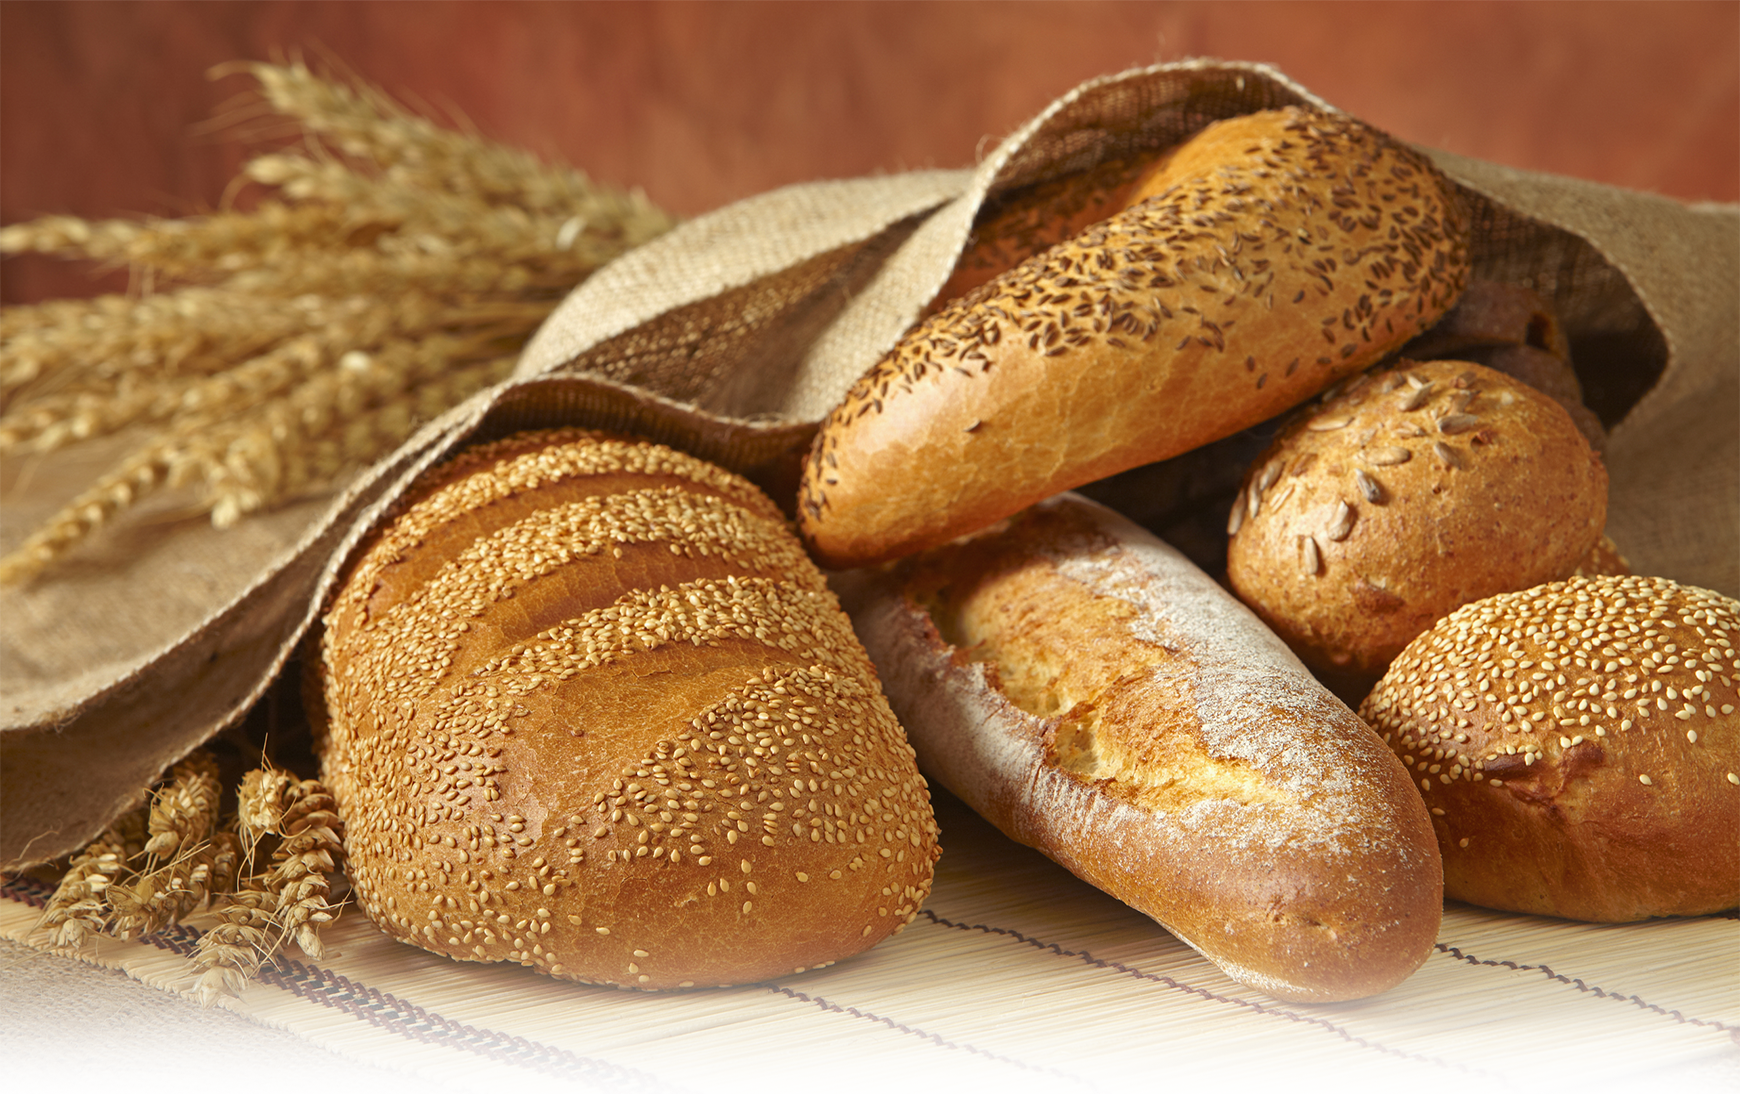
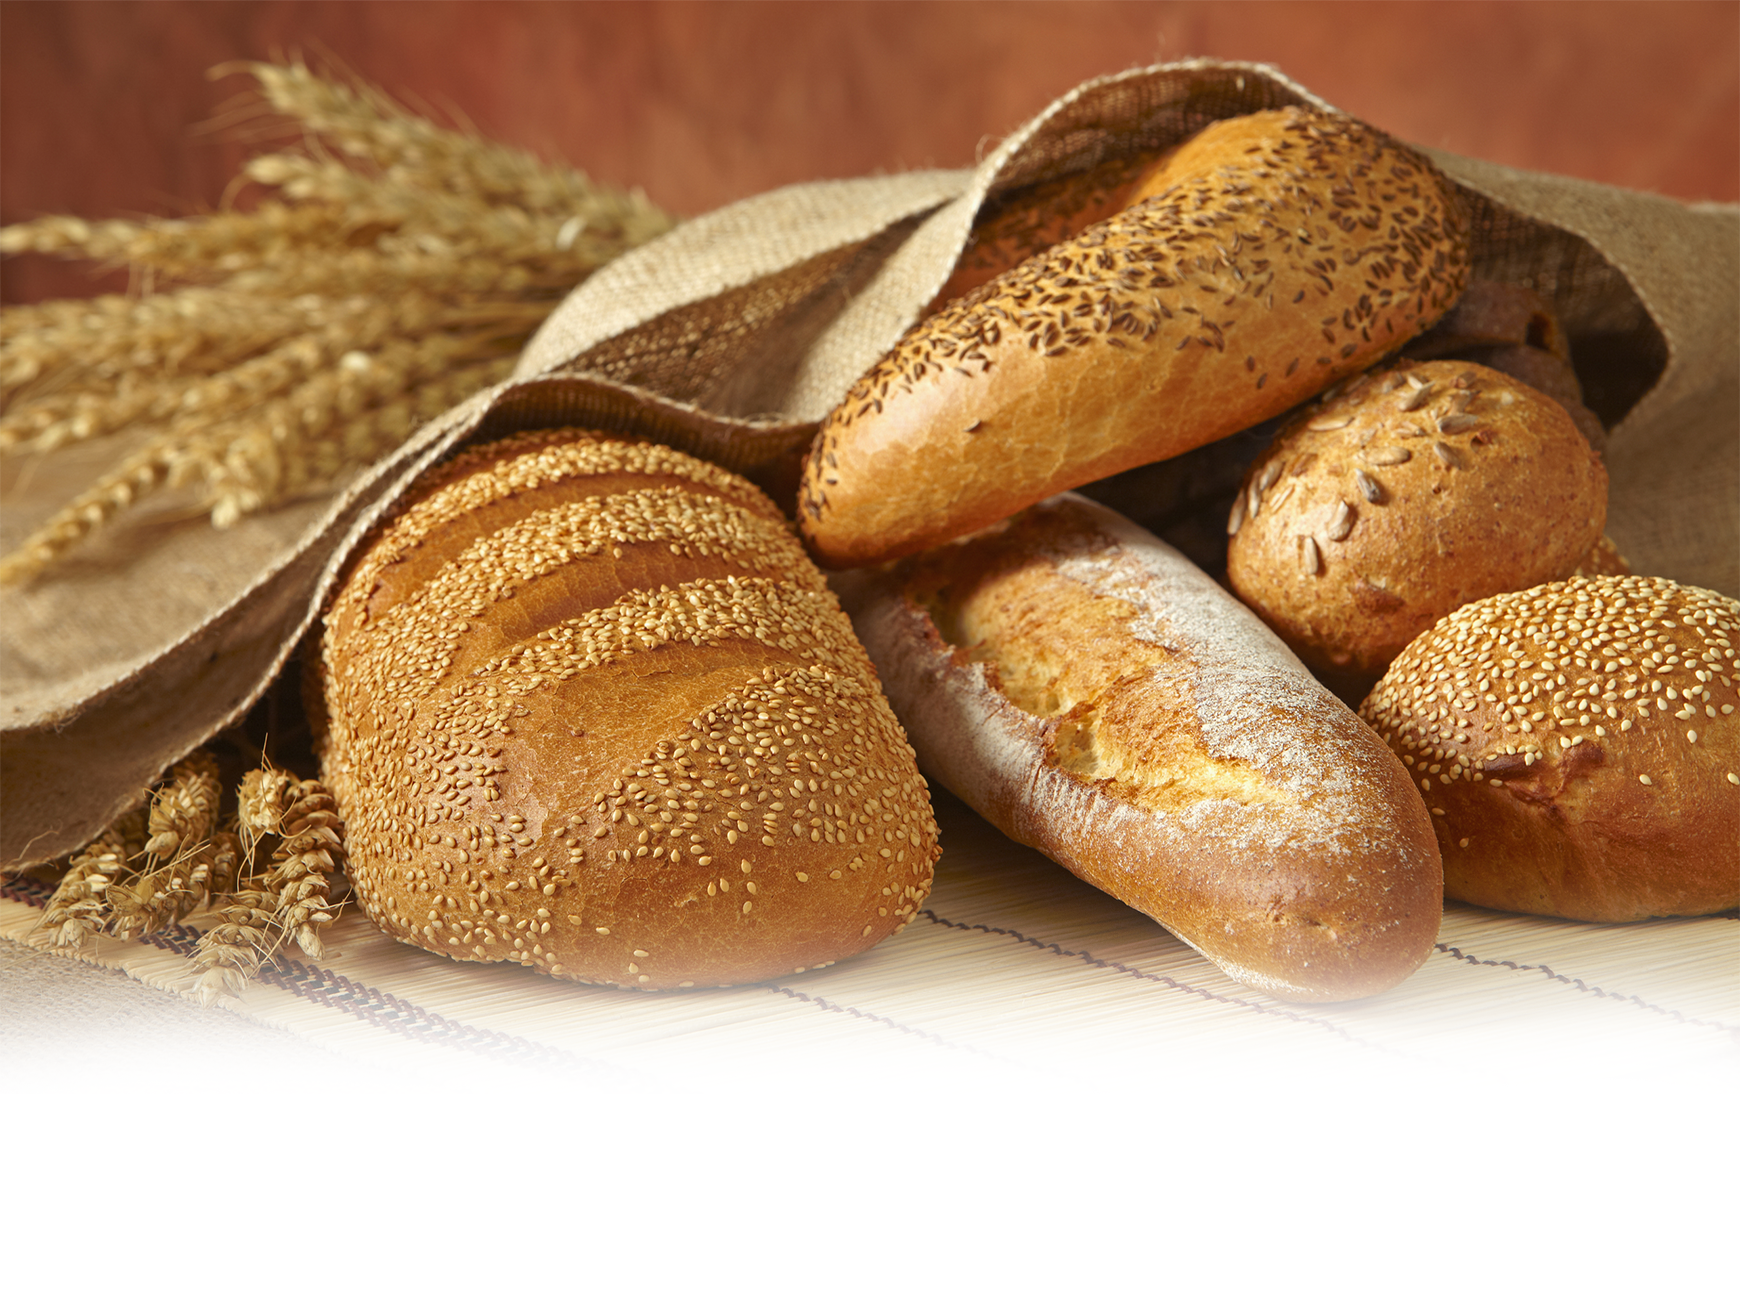
homepage

diff --git a/_site/index.html b/_site/index.html
@@ -3,30 +3,41 @@
 <head>
 	<meta charset="utf-8">
 	<title>Baker's Bakery</title>
-	<link href="/css/common.css" rel="stylesheet">
+	<link href="/BakersBakery/css/common.css" rel="stylesheet">
 </head>
 <body>
 <div class="wrapper">
 	<header>
-		<img src="../images/banner-logo.png">
+		<img src=".../images/banner-logo-compressed.png">
 		<nav>
 	<ul>
-		<li><a href="/index.html" class="current">Home</a></li>
-		<li><a href="/menu.html" class="">Menu</a></li>
-		<li><a href="/about.html" class="">About</a></li>
-		<li><a href="/location.html" class="">Location</a></li>
+		<li><a href="/BakersBakery/index.html" class="current">Home</a></li>
+		<li><a href="/BakersBakery/menu.html" class="">Menu</a></li>
+		<li><a href="/BakersBakery/about.html" class="">About</a></li>
+		<li><a href="/BakersBakery/location.html" class="">Location</a></li>
 	</ul>
 </nav>
 	</header>
 	<div class="header-bar"></div>
-	<img class="home-image" src="images/bread-compressed.png">
-<h1>Our Family Bakery</h2>
+	<img class="home-image" src="images/bread.png">
+<div class="textbox">
+	<div class="textbox-bar"></div>
+	<h1>Our Family Bakery</h2>
 
-<p>For over 50 years we at Baker’s Bakery pride ourselves on quality, freshness and the very finest of ingredients. 
-We use only the finest ingredients in our recepies, each bite represents our commitment to high quality food. 
-We use real butter in our homemade bread, real heavy whipping cream in our cakes; we cook our own egg custard and ganache fillings. Our mission is to bake and deliver to you the highest quality, authentic homemade pastries.</p>
+	<p>For over 50 years we at Baker’s Bakery pride ourselves on quality, freshness and the very finest of ingredients. 
+	We use only the finest ingredients in our recepies, each bite represents our commitment to high quality food. 
+	We use real butter in our homemade bread, real heavy whipping cream in our cakes; we cook our own egg custard and ganache fillings. Our mission is to bake and deliver to you the highest quality, authentic homemade pastries.</p>
 
-<h1>Follow us on Social Media!</h2>
+	<h1>Follow us on Social Media!</h2>
+	<ul class="social-icons">
+		<li><a href="https://www.facebook.com/"><img class="facebook" src="images/icons/facebook.png"></a></li>
+		<li><a href="https://www.instagram.com/"><img class="instagram" src="images/icons/instagram.png"></a></li>
+		<li><a href="https://www.youtube.com/"><img class="youtube" src="images/icons/youtube.png"></a></li>
+		<li><a href="https://twitter.com/"><img class="twitter" src="images/icons/twitter.png"></a></li>
+		<li><a href="https://plus.google.com/"><img class="plus" src="images/icons/plus.png"></a></li>
+	</ul>
+</div>
+
 </div>
 
 </body>

diff --git a/index.html b/index.html
@@ -1,11 +1,22 @@
 ---
 layout: default
 ---
-<img class="home-image" src="images/bread-compressed.png">
-<h1>Our Family Bakery</h2>
 
-<p>For over 50 years we at Baker’s Bakery pride ourselves on quality, freshness and the very finest of ingredients. 
-We use only the finest ingredients in our recepies, each bite represents our commitment to high quality food. 
-We use real butter in our homemade bread, real heavy whipping cream in our cakes; we cook our own egg custard and ganache fillings. Our mission is to bake and deliver to you the highest quality, authentic homemade pastries.</p>
+<img class="home-image" src="images/bread.png">
+<div class="textbox">
+	<div class="textbox-bar"></div>
+	<h1>Our Family Bakery</h2>
 
-<h1>Follow us on Social Media!</h2>
+	<p>For over 50 years we at Baker’s Bakery pride ourselves on quality, freshness and the very finest of ingredients. 
+	We use only the finest ingredients in our recepies, each bite represents our commitment to high quality food. 
+	We use real butter in our homemade bread, real heavy whipping cream in our cakes; we cook our own egg custard and ganache fillings. Our mission is to bake and deliver to you the highest quality, authentic homemade pastries.</p>
+
+	<h1>Follow us on Social Media!</h2>
+	<ul class="social-icons">
+		<li><a href="https://www.facebook.com/"><img class="facebook" src="images/icons/facebook.png"></a></li>
+		<li><a href="https://www.instagram.com/"><img class="instagram" src="images/icons/instagram.png"></a></li>
+		<li><a href="https://www.youtube.com/"><img class="youtube" src="images/icons/youtube.png"></a></li>
+		<li><a href="https://twitter.com/"><img class="twitter" src="images/icons/twitter.png"></a></li>
+		<li><a href="https://plus.google.com/"><img class="plus" src="images/icons/plus.png"></a></li>
+	</ul>
+</div>

diff --git a/_site/css/common.css b/_site/css/common.css
@@ -3,8 +3,9 @@ html {
 	padding: 0;
 	font: normal 100%/1.4 Georgia,serif;
 	background: url("../images/background-texture-compressed.png");
-	background-size: 100% 1000px;
+	background-size: 100% 100%;
 	background-repeat: no-repeat;
+	background-attachment: fixed;
 }
 
 .wrapper {
@@ -30,7 +31,7 @@ header img {
 .header-bar {
 	height: 12px;
 	margin-top: -12px;
-	background-color: rgba(55,12,0,0.55);
+	background-color: rgba(55,12,0,0.65);
 }
 
 
@@ -73,4 +74,51 @@ nav {
 
 .home-image{
 	width: 880px;
+}
+
+
+.textbox-bar {
+	height: 12px;
+	background-color: rgba(55,12,0,0.65);
+}
+
+.textbox {
+	background: -webkit-linear-gradient(top, rgba(50,20,0,.5), rgba(50,20,0,0.9)); /* For Safari 5.1 to 6.0 */
+	margin-top: -200px;
+	position: relative;
+}
+
+.textbox h1 {
+	text-align: center;
+	color: #ffde8c;
+	font-weight:normal;
+}
+
+.textbox p {
+	text-align: justify;
+	padding-left: 20px;
+	padding-right: 20px;
+	color: #ffde8c;
+	line-height: 200%;
+	word-spacing: 2.5px;
+}
+
+.facebook{
+	position: relative;
+	z-index: 50;
+}
+
+.social-icons {
+	text-align: center;
+	list-style-type: none;
+	margin-right: 40px;
+}
+
+.social-icons li{
+	display: inline-block;
+	padding: 0 10px;
+}
+
+.social-icons img{
+	width: 50px;
 }

diff --git a/css/common.css b/css/common.css
@@ -3,8 +3,9 @@ html {
 	padding: 0;
 	font: normal 100%/1.4 Georgia,serif;
 	background: url("../images/background-texture-compressed.png");
-	background-size: 100% 1000px;
+	background-size: 100% 100%;
 	background-repeat: no-repeat;
+	background-attachment: fixed;
 }
 
 .wrapper {
@@ -30,7 +31,7 @@ header img {
 .header-bar {
 	height: 12px;
 	margin-top: -12px;
-	background-color: rgba(55,12,0,0.55);
+	background-color: rgba(55,12,0,0.65);
 }
 
 
@@ -73,4 +74,51 @@ nav {
 
 .home-image{
 	width: 880px;
+}
+
+
+.textbox-bar {
+	height: 12px;
+	background-color: rgba(55,12,0,0.65);
+}
+
+.textbox {
+	background: -webkit-linear-gradient(top, rgba(50,20,0,.5), rgba(50,20,0,0.9)); /* For Safari 5.1 to 6.0 */
+	margin-top: -200px;
+	position: relative;
+}
+
+.textbox h1 {
+	text-align: center;
+	color: #ffde8c;
+	font-weight:normal;
+}
+
+.textbox p {
+	text-align: justify;
+	padding-left: 20px;
+	padding-right: 20px;
+	color: #ffde8c;
+	line-height: 200%;
+	word-spacing: 2.5px;
+}
+
+.facebook{
+	position: relative;
+	z-index: 50;
+}
+
+.social-icons {
+	text-align: center;
+	list-style-type: none;
+	margin-right: 40px;
+}
+
+.social-icons li{
+	display: inline-block;
+	padding: 0 10px;
+}
+
+.social-icons img{
+	width: 50px;
 }

diff --git a/_site/about.html b/_site/about.html
@@ -3,18 +3,18 @@
 <head>
 	<meta charset="utf-8">
 	<title>Baker's Bakery</title>
-	<link href="/css/common.css" rel="stylesheet">
+	<link href="/BakersBakery/css/common.css" rel="stylesheet">
 </head>
 <body>
 <div class="wrapper">
 	<header>
-		<img src="../images/banner-logo.png">
+		<img src=".../images/banner-logo-compressed.png">
 		<nav>
 	<ul>
-		<li><a href="/index.html" class="">Home</a></li>
-		<li><a href="/menu.html" class="">Menu</a></li>
-		<li><a href="/about.html" class="current">About</a></li>
-		<li><a href="/location.html" class="">Location</a></li>
+		<li><a href="/BakersBakery/index.html" class="">Home</a></li>
+		<li><a href="/BakersBakery/menu.html" class="">Menu</a></li>
+		<li><a href="/BakersBakery/about.html" class="current">About</a></li>
+		<li><a href="/BakersBakery/location.html" class="">Location</a></li>
 	</ul>
 </nav>
 	</header>

diff --git a/_site/location.html b/_site/location.html
@@ -3,18 +3,18 @@
 <head>
 	<meta charset="utf-8">
 	<title>Baker's Bakery</title>
-	<link href="/css/common.css" rel="stylesheet">
+	<link href="/BakersBakery/css/common.css" rel="stylesheet">
 </head>
 <body>
 <div class="wrapper">
 	<header>
-		<img src="../images/banner-logo.png">
+		<img src=".../images/banner-logo-compressed.png">
 		<nav>
 	<ul>
-		<li><a href="/index.html" class="">Home</a></li>
-		<li><a href="/menu.html" class="">Menu</a></li>
-		<li><a href="/about.html" class="">About</a></li>
-		<li><a href="/location.html" class="current">Location</a></li>
+		<li><a href="/BakersBakery/index.html" class="">Home</a></li>
+		<li><a href="/BakersBakery/menu.html" class="">Menu</a></li>
+		<li><a href="/BakersBakery/about.html" class="">About</a></li>
+		<li><a href="/BakersBakery/location.html" class="current">Location</a></li>
 	</ul>
 </nav>
 	</header>

diff --git a/_site/menu.html b/_site/menu.html
@@ -3,18 +3,18 @@
 <head>
 	<meta charset="utf-8">
 	<title>Baker's Bakery</title>
-	<link href="/css/common.css" rel="stylesheet">
+	<link href="/BakersBakery/css/common.css" rel="stylesheet">
 </head>
 <body>
 <div class="wrapper">
 	<header>
-		<img src="../images/banner-logo.png">
+		<img src=".../images/banner-logo-compressed.png">
 		<nav>
 	<ul>
-		<li><a href="/index.html" class="">Home</a></li>
-		<li><a href="/menu.html" class="current">Menu</a></li>
-		<li><a href="/about.html" class="">About</a></li>
-		<li><a href="/location.html" class="">Location</a></li>
+		<li><a href="/BakersBakery/index.html" class="">Home</a></li>
+		<li><a href="/BakersBakery/menu.html" class="current">Menu</a></li>
+		<li><a href="/BakersBakery/about.html" class="">About</a></li>
+		<li><a href="/BakersBakery/location.html" class="">Location</a></li>
 	</ul>
 </nav>
 	</header>

diff --git a/_layouts/default.html b/_layouts/default.html
@@ -8,7 +8,7 @@
 <body>
 <div class="wrapper">
 	<header>
-		<img src="../images/banner-logo.png">
+		<img src=".../images/banner-logo-compressed.png">
 		{% include nav.html %}
 	</header>
 	<div class="header-bar"></div>
